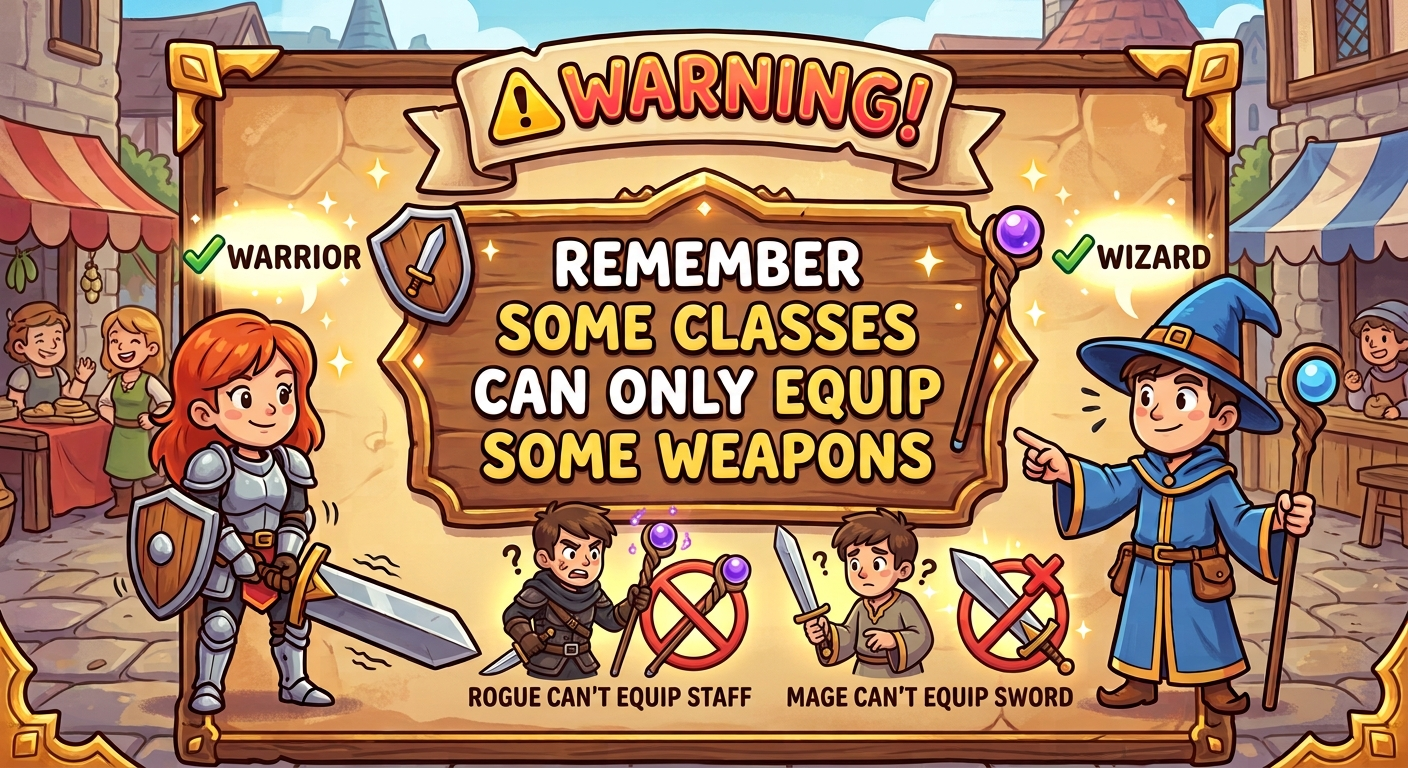
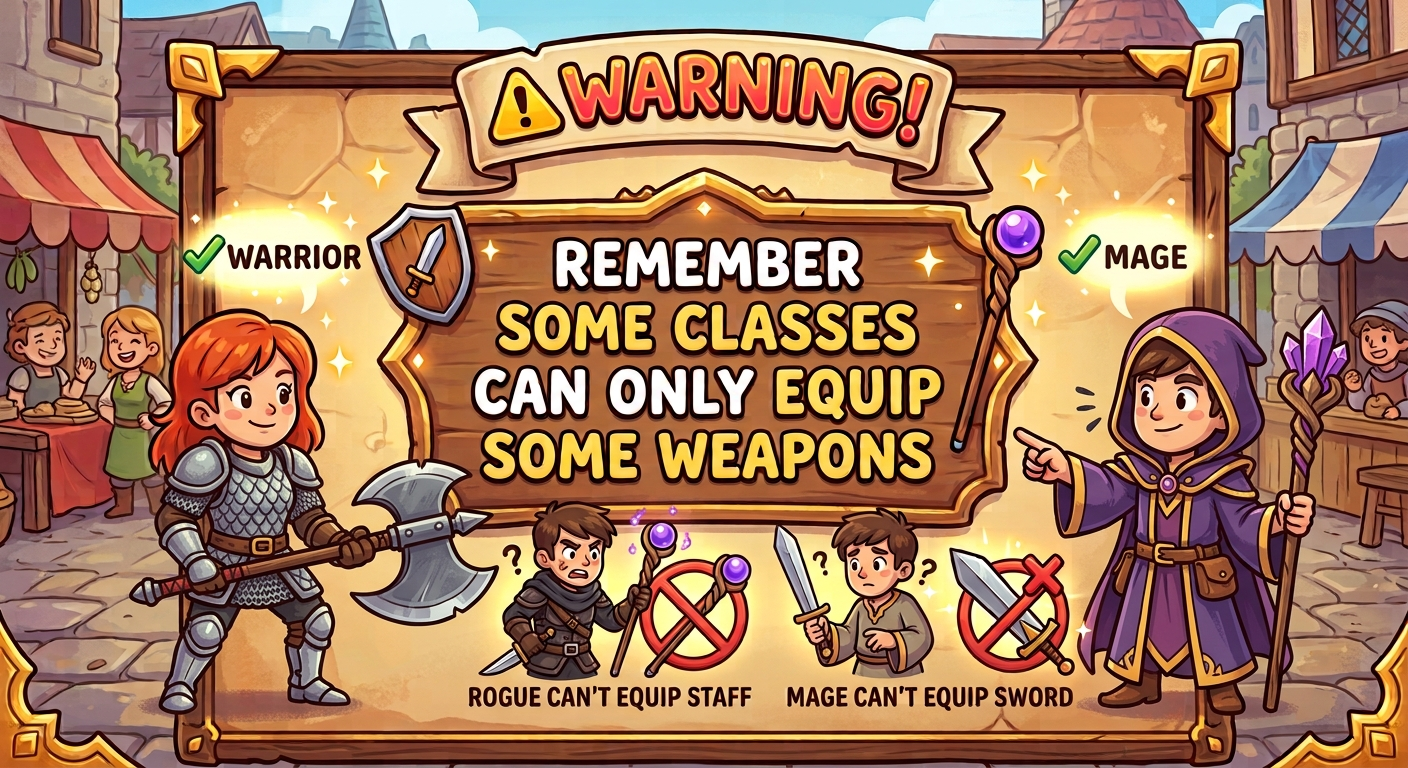
NERFING THIS SHIT

Changed region(s): [[0.75, 0.2812, 0.9688, 0.9375], [0.0625, 0.5625, 0.375, 0.9375]]

diff --git a/index.html b/index.html
@@ -36,7 +36,7 @@
         <div class="intro-body">
           <p class="intro-placeholder">            
             Vodatone CEO's son - Jimmy Jim - was brutally murdered... <br><br>
-            ...in a video game called "World of Vodacraft", apparently another player attacked him while he was busy fighting some beasts that roam in the area
+            ...in a video game called "World of Vodacraft", apparently another player attacked him while he was busy <span class="highlight">fighting some beasts</span> that roam in the area
             and now he's been crying all week and it's up to you to figure out who did it.<br>
             In the <span class="highlight">damage_logs</span> table you will find a log of everyone who got damaged on the day of the incident. <br>
             I've attached a few <span class="highlight">Clues</span> in the Clues Folder Viewer to help get you started.

diff --git a/app.py b/app.py
@@ -51,7 +51,6 @@ TABLE_DESCRIPTIONS = {
     "damage_logs": "Timestamped damage events taken by each player.",
     "places": "In-game locations with their sunset/sunrise times.",
     "player_overview": "Players, their class, currently equipped weapon, and its effect.",
-    "weapon_effects": "Weapon effects (e.g. burning, poisoned) and their damage increment.",
     "weapons": "Base weapons and their base damage.",
     "zone_presence": "Who was in which place and when, tracked by entry/exit timestamps.",
 }

diff --git a/how_2_solve.md b/how_2_solve.md
@@ -2,27 +2,39 @@ select * from damage_logs
 where username = "xCalibur"
 order by damage_timestamp desc;
 
-id	username	damage_timestamp	damage_taken
-14	xCalibur	19:07:41	34
-13	xCalibur	19:07:24	12
-11	xCalibur	19:06:55	16
-9	xCalibur	19:06:19	13
-7	xCalibur	19:05:54	17
-5	xCalibur	19:05:16	11
-3	xCalibur	19:04:41	15
-
-who could do 34 dmg?
+- who could do 34 dmg?
 
 SELECT
 c.class_name,
 w.weapon_name,
-we.weapon_effect,
-(w.damage + we.damage_increment + c.damage_min) AS total_min_damage,
-(w.damage + we.damage_increment + c.damage_max) AS total_max_damage
+(w.damage + c.damage_min) AS total_min_damage,
+(w.damage + c.damage_max) AS total_max_damage
 FROM classes AS c
 CROSS JOIN weapons AS w
-CROSS JOIN weapon_effects AS we
 WHERE 34 BETWEEN
-(w.damage + we.damage_increment + c.damage_min)
-AND (w.damage + we.damage_increment + c.damage_max)
-ORDER BY c.class_name, w.weapon_name, we.weapon_effect;
+(w.damage+ c.damage_min)
+AND (w.damage + c.damage_max)
+ORDER BY c.class_name, w.weapon_name;
+
+returns 7 rows
+
+- cross check with classes that can equip those weapons
+
+SELECT
+  c.class_name,
+  w.weapon_name,
+  (w.damage + c.damage_min) AS total_min_damage,
+  (w.damage + c.damage_max) AS total_max_damage
+FROM classes AS c
+JOIN class_weapon_permissions AS cwp
+  ON cwp.class_name = c.class_name
+JOIN weapons AS w
+  ON w.weapon_name = cwp.weapon_name
+WHERE 34 BETWEEN
+      (w.damage + c.damage_min)
+  AND (w.damage + c.damage_max)
+ORDER BY c.class_name, w.weapon_name;
+
+returns:
+
+rogue	dagger	30	50
